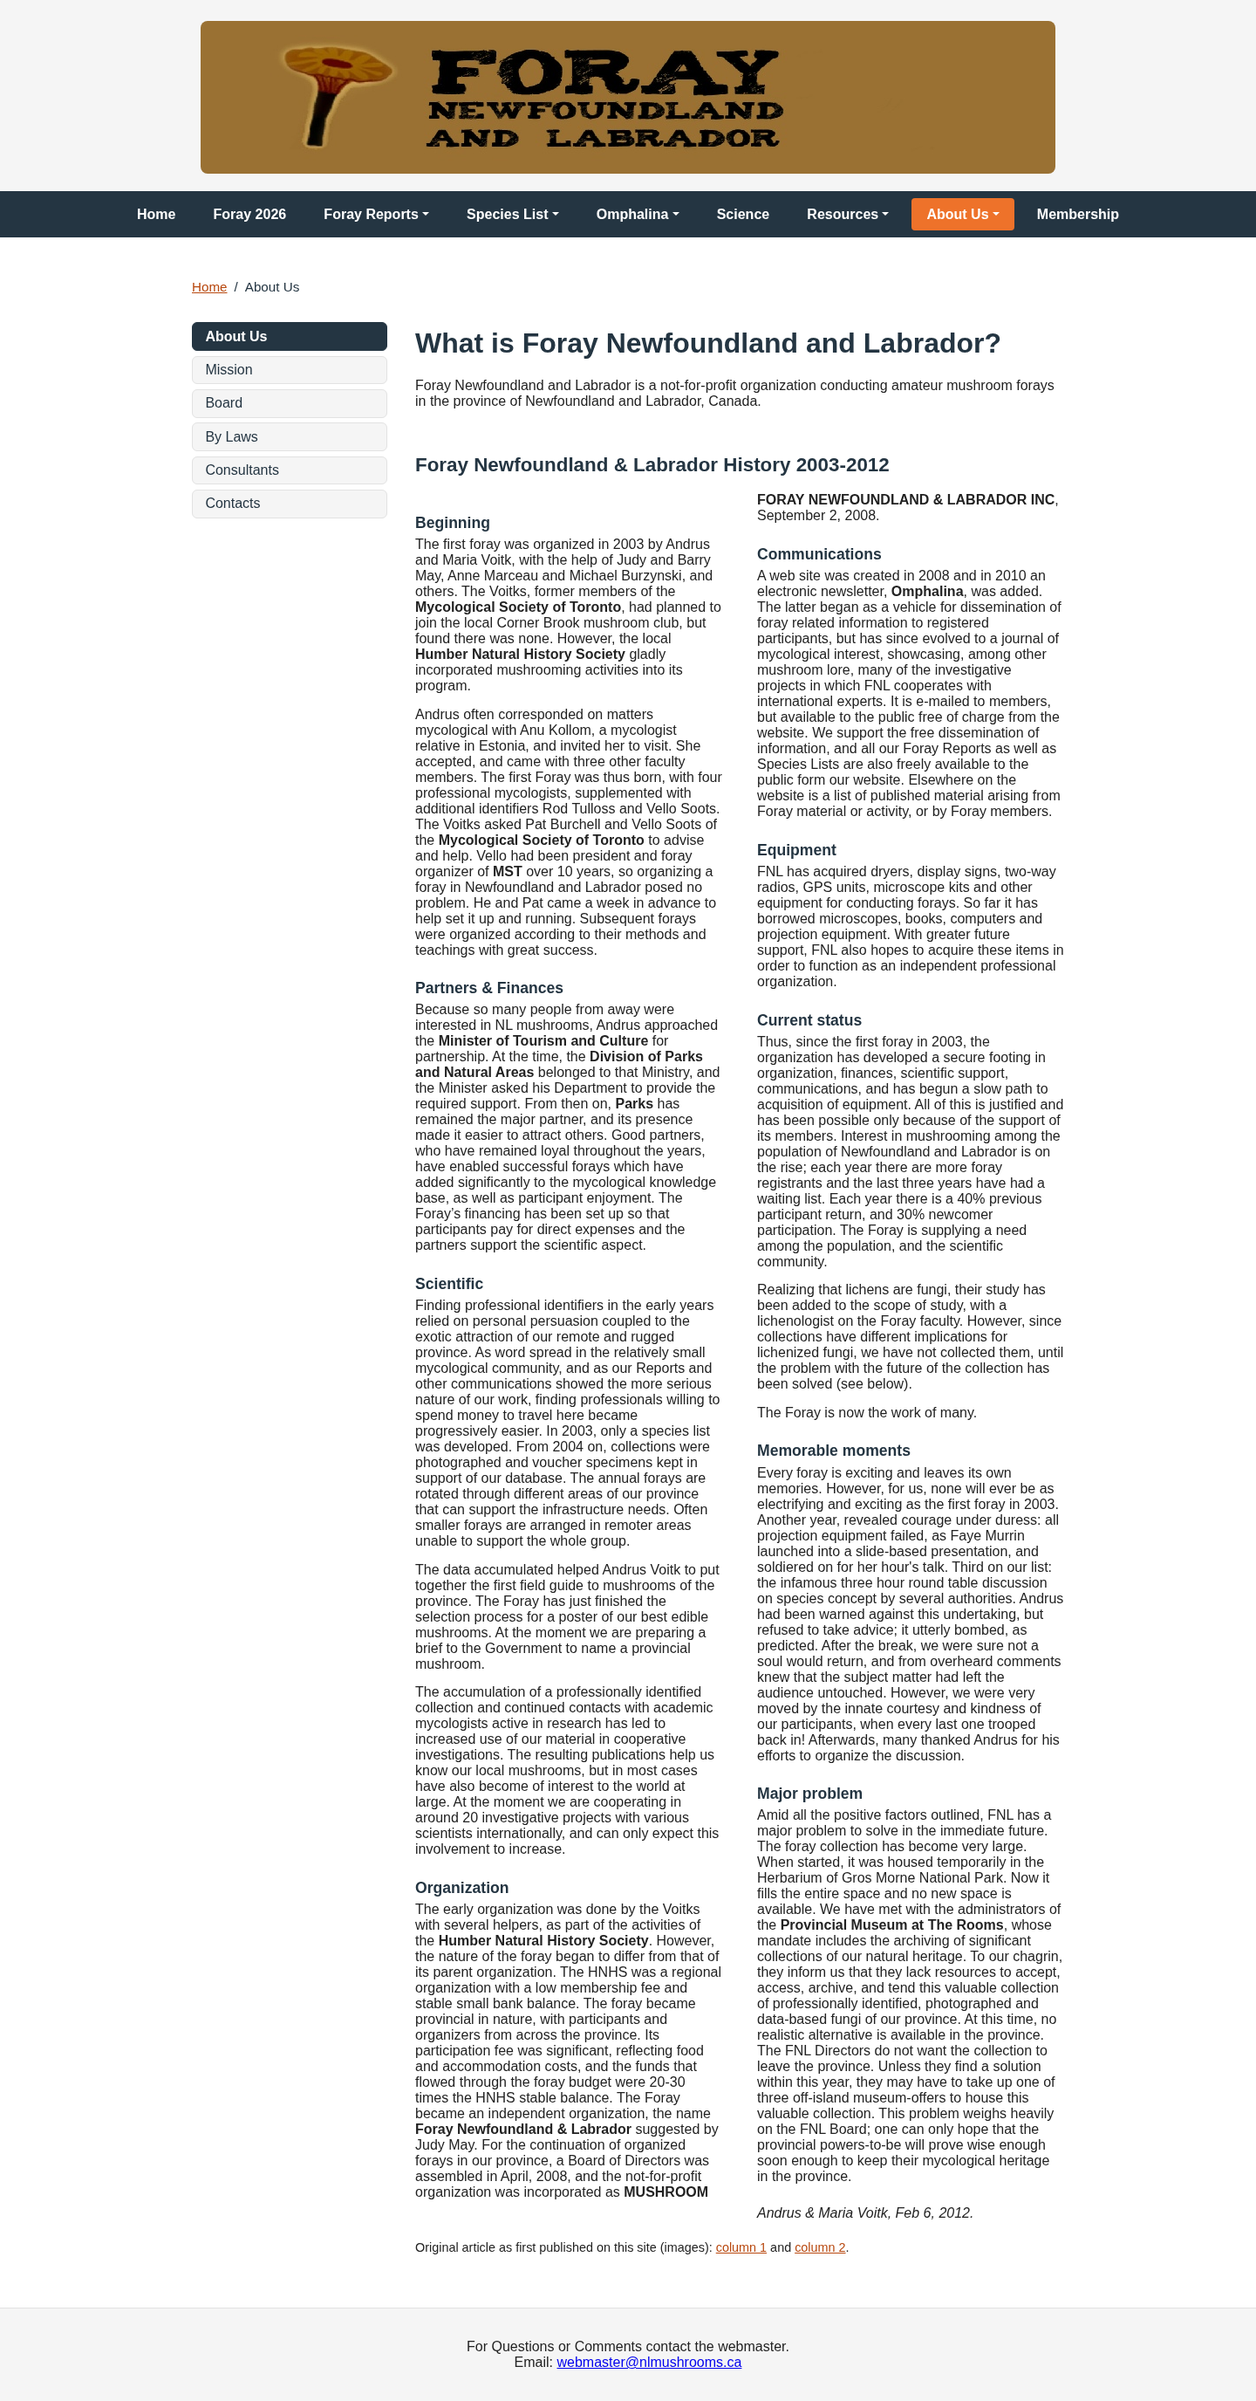
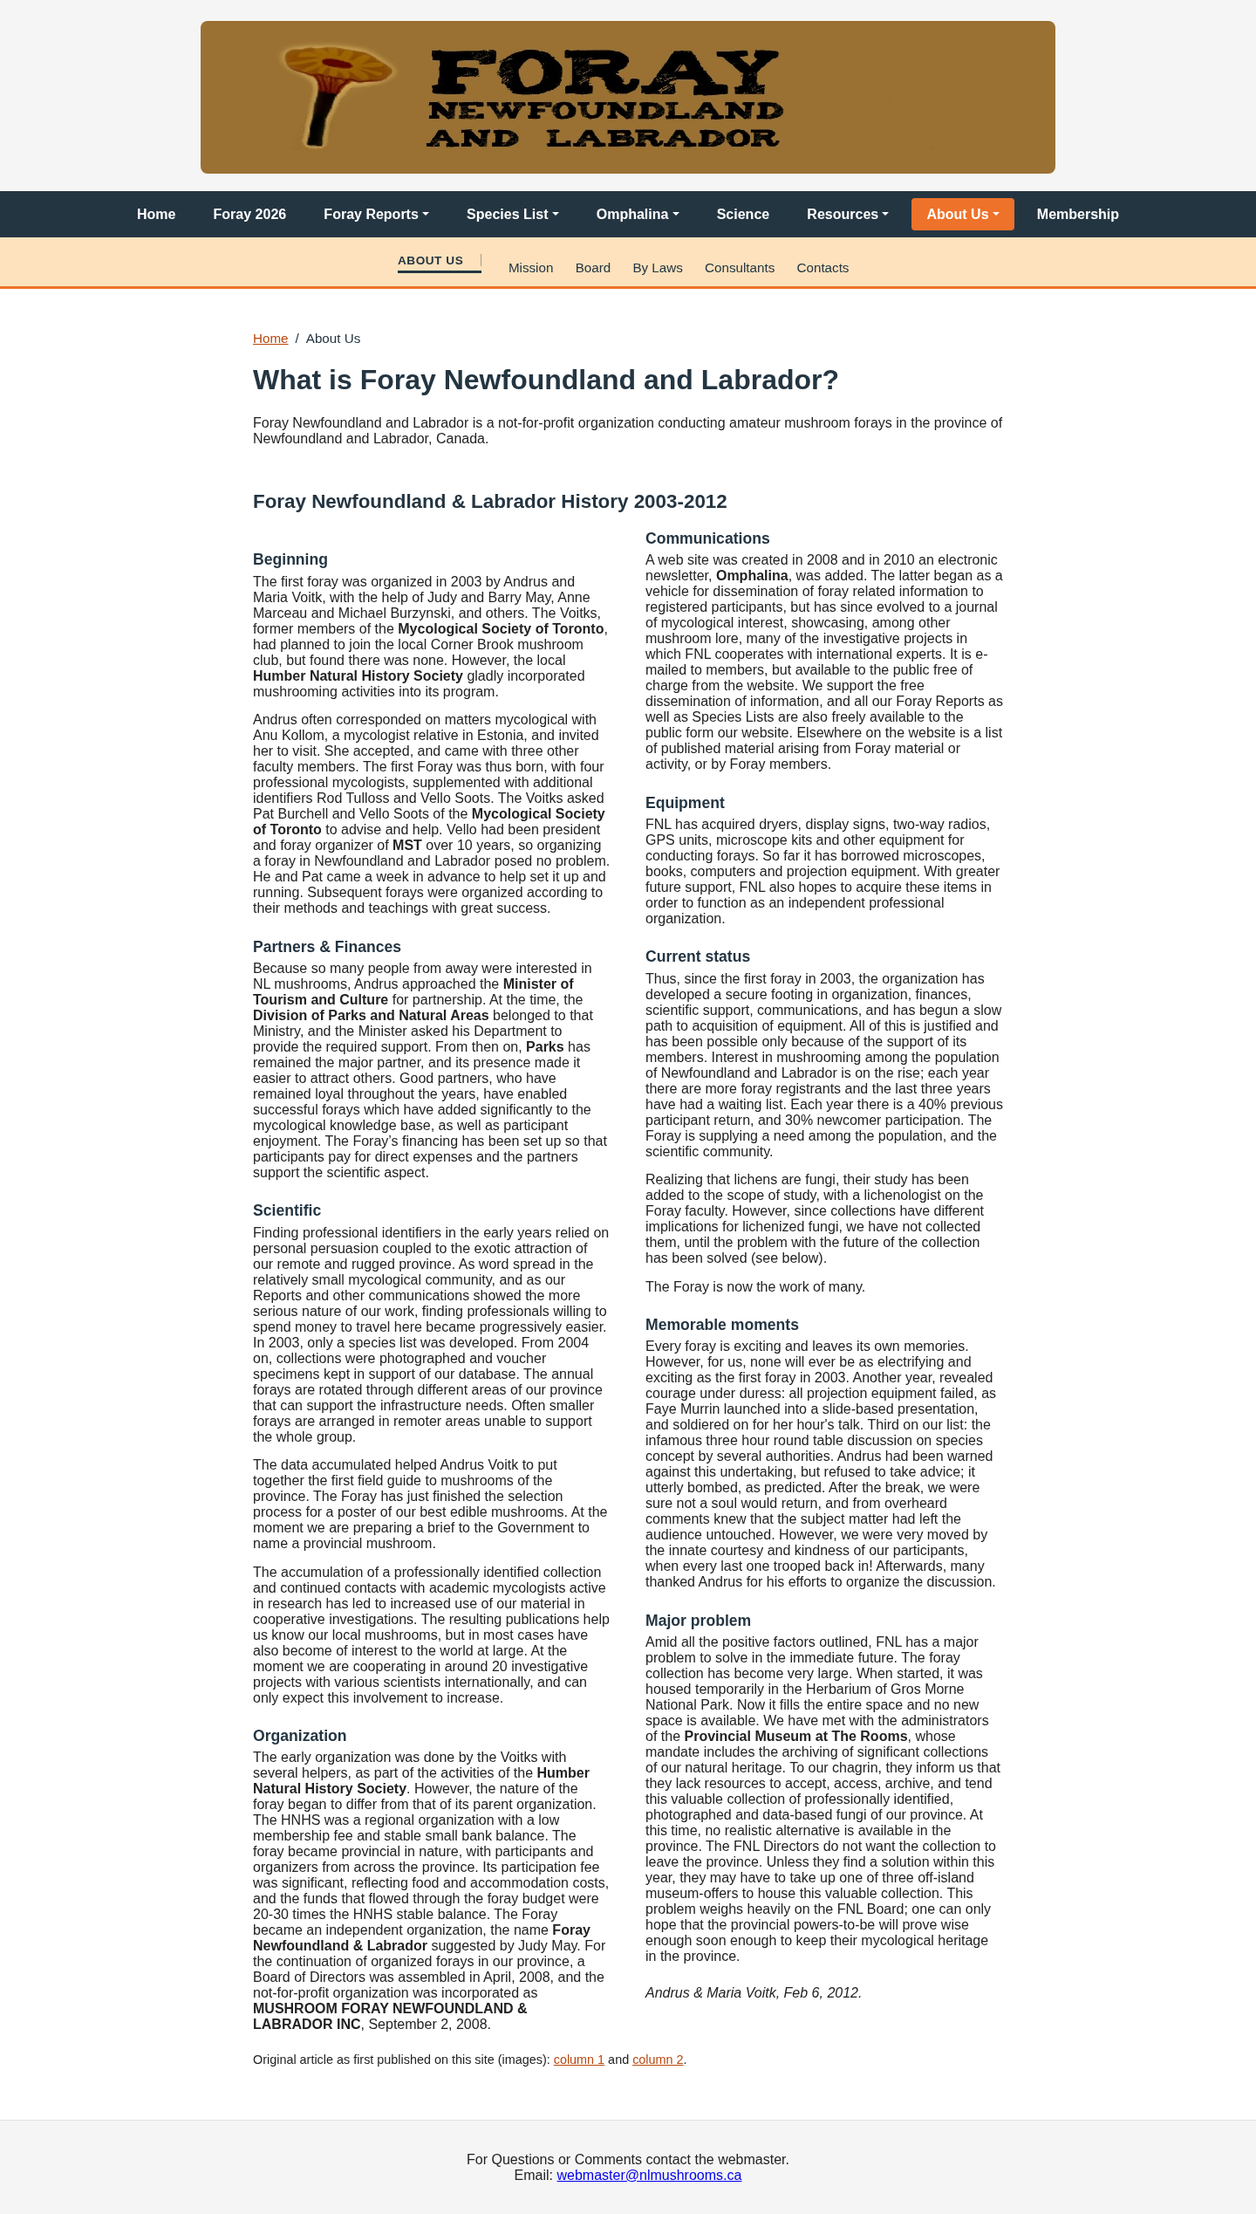
feat(about): horizontal sub-nav under the main nav instead of side pills

Changed region(s): [[0.0, 0.0, 1.0, 0.9342], [0.4062, 0.9653, 0.625, 0.9965]]

diff --git a/assets/styles/site.css b/assets/styles/site.css
@@ -207,16 +207,40 @@ main.page a { color: #b8480f; }
 }
 .history .source { margin-top: 1.5em; font-size: 0.9em; column-span: all; }
 
-/* Section menu and breadcrumb (about_us and its sub-pages) */
-main.with-section { max-width: 1000px; display: grid; grid-template-columns: 1fr; gap: 1rem 2rem; }
-main.with-section .breadcrumb { margin: 0; font-size: 0.95em; --bs-breadcrumb-divider-color: #243542; --bs-breadcrumb-item-active-color: #243542; }
-main.with-section .breadcrumb a { color: #b8480f; }
-.section-nav .nav-pills { flex-wrap: wrap; gap: 0.35rem; }
-.section-nav .nav-link { color: #243542; background: #f5f5f5; border: 1px solid #e2e2e2; padding: 0.4em 0.9em; }
-.section-nav .nav-link:hover, .section-nav .nav-link:focus { background: #fde2bd; color: #243542; outline: none; }
-.section-nav .nav-link.active { background: #243542; border-color: #243542; color: #fff; font-weight: 600; }
-@media (min-width: 992px) {
-  main.with-section { grid-template-columns: 14rem 1fr; align-items: start; }
-  main.with-section .page-breadcrumb { grid-column: 1 / -1; }
-  .section-nav .nav-pills { flex-direction: column; flex-wrap: nowrap; }
+/* Breadcrumb and section sub-nav (pages that belong to a section) */
+.page-breadcrumb { margin: 0 0 1rem; }
+.page-breadcrumb .breadcrumb { margin: 0; font-size: 0.95em; --bs-breadcrumb-divider-color: #243542; --bs-breadcrumb-item-active-color: #243542; }
+.page-breadcrumb .breadcrumb a { color: #b8480f; }
+/* Sub-nav: light bar directly under the dark main nav, smaller type, underline marks the current page */
+.subnav {
+  display: flex;
+  flex-wrap: wrap;
+  align-items: center;
+  justify-content: center;
+  gap: 0.25rem 1.25rem;
+  padding: 0.35rem 1rem;
+  background: #fde2bd;
+  border-bottom: 3px solid #ee722a;
+  font-size: 0.95rem;
+}
+.subnav .subnav-title {
+  color: #243542;
+  font-weight: 700;
+  text-transform: uppercase;
+  letter-spacing: 0.04em;
+  font-size: 0.85rem;
+  text-decoration: none;
+  padding: 0.3em 0;
+  border-bottom: 3px solid transparent;
+}
+.subnav .subnav-title::after { content: ""; display: inline-block; width: 1px; height: 1em; background: #243542; opacity: 0.4; margin-left: 1.25rem; vertical-align: -0.15em; }
+.subnav .nav { flex-wrap: wrap; gap: 0 0.25rem; }
+.subnav .nav-link { color: #243542; padding: 0.3em 0.7em; border-bottom: 3px solid transparent; border-radius: 0; font-weight: 500; }
+.subnav .nav-link:hover, .subnav .nav-link:focus, .subnav .subnav-title:hover, .subnav .subnav-title:focus { color: #243542; border-bottom-color: #ee722a; outline: none; }
+.subnav .nav-link.active, .subnav .subnav-title.active { border-bottom-color: #243542; font-weight: 700; }
+@media (max-width: 991.98px) {
+  .subnav { gap: 0; padding: 0.4rem 0.5rem; }
+  .subnav .subnav-title { flex: 1 0 100%; text-align: center; }
+  .subnav .subnav-title::after { display: none; }
+  .subnav .nav { justify-content: center; }
 }

diff --git a/about_us.html b/about_us.html
@@ -113,6 +113,18 @@
     </div>
   </nav>
   <!-- /layout:nav -->
+  <!-- layout:section-nav -->
+  <nav class="subnav" aria-label="About Us section">
+    <a class="subnav-title active" aria-current="page" href="about_us.html">About Us</a>
+    <ul class="nav">
+      <li class="nav-item"><a class="nav-link" href="mission.html">Mission</a></li>
+      <li class="nav-item"><a class="nav-link" href="board.html">Board</a></li>
+      <li class="nav-item"><a class="nav-link" href="bylaws.html">By Laws</a></li>
+      <li class="nav-item"><a class="nav-link" href="consultants.html">Consultants</a></li>
+      <li class="nav-item"><a class="nav-link" href="contacts.html">Contacts</a></li>
+    </ul>
+  </nav>
+  <!-- /layout:section-nav -->
   <main class="page with-section">
     <!-- layout:breadcrumb -->
     <nav class="page-breadcrumb" aria-label="breadcrumb">
@@ -122,18 +134,6 @@
       </ol>
     </nav>
     <!-- /layout:breadcrumb -->
-    <!-- layout:section-nav -->
-    <nav class="section-nav" aria-label="About Us section">
-      <ul class="nav nav-pills">
-        <li class="nav-item"><a class="nav-link active" aria-current="page" href="about_us.html">About Us</a></li>
-        <li class="nav-item"><a class="nav-link" href="mission.html">Mission</a></li>
-        <li class="nav-item"><a class="nav-link" href="board.html">Board</a></li>
-        <li class="nav-item"><a class="nav-link" href="bylaws.html">By Laws</a></li>
-        <li class="nav-item"><a class="nav-link" href="consultants.html">Consultants</a></li>
-        <li class="nav-item"><a class="nav-link" href="contacts.html">Contacts</a></li>
-      </ul>
-    </nav>
-    <!-- /layout:section-nav -->
     <div class="page-body">
     <section class="content">
       <h1>What is Foray Newfoundland and Labrador?</h1>

diff --git a/board.html b/board.html
@@ -113,6 +113,18 @@
     </div>
   </nav>
   <!-- /layout:nav -->
+  <!-- layout:section-nav -->
+  <nav class="subnav" aria-label="About Us section">
+    <a class="subnav-title" href="about_us.html">About Us</a>
+    <ul class="nav">
+      <li class="nav-item"><a class="nav-link" href="mission.html">Mission</a></li>
+      <li class="nav-item"><a class="nav-link active" aria-current="page" href="board.html">Board</a></li>
+      <li class="nav-item"><a class="nav-link" href="bylaws.html">By Laws</a></li>
+      <li class="nav-item"><a class="nav-link" href="consultants.html">Consultants</a></li>
+      <li class="nav-item"><a class="nav-link" href="contacts.html">Contacts</a></li>
+    </ul>
+  </nav>
+  <!-- /layout:section-nav -->
   <main class="page with-section">
     <!-- layout:breadcrumb -->
     <nav class="page-breadcrumb" aria-label="breadcrumb">
@@ -123,18 +135,6 @@
       </ol>
     </nav>
     <!-- /layout:breadcrumb -->
-    <!-- layout:section-nav -->
-    <nav class="section-nav" aria-label="About Us section">
-      <ul class="nav nav-pills">
-        <li class="nav-item"><a class="nav-link" href="about_us.html">About Us</a></li>
-        <li class="nav-item"><a class="nav-link" href="mission.html">Mission</a></li>
-        <li class="nav-item"><a class="nav-link active" aria-current="page" href="board.html">Board</a></li>
-        <li class="nav-item"><a class="nav-link" href="bylaws.html">By Laws</a></li>
-        <li class="nav-item"><a class="nav-link" href="consultants.html">Consultants</a></li>
-        <li class="nav-item"><a class="nav-link" href="contacts.html">Contacts</a></li>
-      </ul>
-    </nav>
-    <!-- /layout:section-nav -->
     <div class="page-body">
       <section class="content">
         <h1>Board of Directors</h1>

diff --git a/consultants.html b/consultants.html
@@ -113,6 +113,18 @@
     </div>
   </nav>
   <!-- /layout:nav -->
+  <!-- layout:section-nav -->
+  <nav class="subnav" aria-label="About Us section">
+    <a class="subnav-title" href="about_us.html">About Us</a>
+    <ul class="nav">
+      <li class="nav-item"><a class="nav-link" href="mission.html">Mission</a></li>
+      <li class="nav-item"><a class="nav-link" href="board.html">Board</a></li>
+      <li class="nav-item"><a class="nav-link" href="bylaws.html">By Laws</a></li>
+      <li class="nav-item"><a class="nav-link active" aria-current="page" href="consultants.html">Consultants</a></li>
+      <li class="nav-item"><a class="nav-link" href="contacts.html">Contacts</a></li>
+    </ul>
+  </nav>
+  <!-- /layout:section-nav -->
   <main class="page with-section">
     <!-- layout:breadcrumb -->
     <nav class="page-breadcrumb" aria-label="breadcrumb">
@@ -123,18 +135,6 @@
       </ol>
     </nav>
     <!-- /layout:breadcrumb -->
-    <!-- layout:section-nav -->
-    <nav class="section-nav" aria-label="About Us section">
-      <ul class="nav nav-pills">
-        <li class="nav-item"><a class="nav-link" href="about_us.html">About Us</a></li>
-        <li class="nav-item"><a class="nav-link" href="mission.html">Mission</a></li>
-        <li class="nav-item"><a class="nav-link" href="board.html">Board</a></li>
-        <li class="nav-item"><a class="nav-link" href="bylaws.html">By Laws</a></li>
-        <li class="nav-item"><a class="nav-link active" aria-current="page" href="consultants.html">Consultants</a></li>
-        <li class="nav-item"><a class="nav-link" href="contacts.html">Contacts</a></li>
-      </ul>
-    </nav>
-    <!-- /layout:section-nav -->
     <div class="page-body">
       <section class="content">
         <h1>Consultants</h1>

diff --git a/bylaws.html b/bylaws.html
@@ -113,6 +113,18 @@
     </div>
   </nav>
   <!-- /layout:nav -->
+  <!-- layout:section-nav -->
+  <nav class="subnav" aria-label="About Us section">
+    <a class="subnav-title" href="about_us.html">About Us</a>
+    <ul class="nav">
+      <li class="nav-item"><a class="nav-link" href="mission.html">Mission</a></li>
+      <li class="nav-item"><a class="nav-link" href="board.html">Board</a></li>
+      <li class="nav-item"><a class="nav-link active" aria-current="page" href="bylaws.html">By Laws</a></li>
+      <li class="nav-item"><a class="nav-link" href="consultants.html">Consultants</a></li>
+      <li class="nav-item"><a class="nav-link" href="contacts.html">Contacts</a></li>
+    </ul>
+  </nav>
+  <!-- /layout:section-nav -->
   <main class="page with-section">
     <!-- layout:breadcrumb -->
     <nav class="page-breadcrumb" aria-label="breadcrumb">
@@ -123,18 +135,6 @@
       </ol>
     </nav>
     <!-- /layout:breadcrumb -->
-    <!-- layout:section-nav -->
-    <nav class="section-nav" aria-label="About Us section">
-      <ul class="nav nav-pills">
-        <li class="nav-item"><a class="nav-link" href="about_us.html">About Us</a></li>
-        <li class="nav-item"><a class="nav-link" href="mission.html">Mission</a></li>
-        <li class="nav-item"><a class="nav-link" href="board.html">Board</a></li>
-        <li class="nav-item"><a class="nav-link active" aria-current="page" href="bylaws.html">By Laws</a></li>
-        <li class="nav-item"><a class="nav-link" href="consultants.html">Consultants</a></li>
-        <li class="nav-item"><a class="nav-link" href="contacts.html">Contacts</a></li>
-      </ul>
-    </nav>
-    <!-- /layout:section-nav -->
     <div class="page-body">
       <section class="content">
         <h1>By Laws</h1>

diff --git a/mission.html b/mission.html
@@ -113,6 +113,18 @@
     </div>
   </nav>
   <!-- /layout:nav -->
+  <!-- layout:section-nav -->
+  <nav class="subnav" aria-label="About Us section">
+    <a class="subnav-title" href="about_us.html">About Us</a>
+    <ul class="nav">
+      <li class="nav-item"><a class="nav-link active" aria-current="page" href="mission.html">Mission</a></li>
+      <li class="nav-item"><a class="nav-link" href="board.html">Board</a></li>
+      <li class="nav-item"><a class="nav-link" href="bylaws.html">By Laws</a></li>
+      <li class="nav-item"><a class="nav-link" href="consultants.html">Consultants</a></li>
+      <li class="nav-item"><a class="nav-link" href="contacts.html">Contacts</a></li>
+    </ul>
+  </nav>
+  <!-- /layout:section-nav -->
   <main class="page with-section">
     <!-- layout:breadcrumb -->
     <nav class="page-breadcrumb" aria-label="breadcrumb">
@@ -123,18 +135,6 @@
       </ol>
     </nav>
     <!-- /layout:breadcrumb -->
-    <!-- layout:section-nav -->
-    <nav class="section-nav" aria-label="About Us section">
-      <ul class="nav nav-pills">
-        <li class="nav-item"><a class="nav-link" href="about_us.html">About Us</a></li>
-        <li class="nav-item"><a class="nav-link active" aria-current="page" href="mission.html">Mission</a></li>
-        <li class="nav-item"><a class="nav-link" href="board.html">Board</a></li>
-        <li class="nav-item"><a class="nav-link" href="bylaws.html">By Laws</a></li>
-        <li class="nav-item"><a class="nav-link" href="consultants.html">Consultants</a></li>
-        <li class="nav-item"><a class="nav-link" href="contacts.html">Contacts</a></li>
-      </ul>
-    </nav>
-    <!-- /layout:section-nav -->
     <div class="page-body">
       <section class="content">
         <h1>Mission</h1>

diff --git a/contacts.html b/contacts.html
@@ -113,6 +113,18 @@
     </div>
   </nav>
   <!-- /layout:nav -->
+  <!-- layout:section-nav -->
+  <nav class="subnav" aria-label="About Us section">
+    <a class="subnav-title" href="about_us.html">About Us</a>
+    <ul class="nav">
+      <li class="nav-item"><a class="nav-link" href="mission.html">Mission</a></li>
+      <li class="nav-item"><a class="nav-link" href="board.html">Board</a></li>
+      <li class="nav-item"><a class="nav-link" href="bylaws.html">By Laws</a></li>
+      <li class="nav-item"><a class="nav-link" href="consultants.html">Consultants</a></li>
+      <li class="nav-item"><a class="nav-link active" aria-current="page" href="contacts.html">Contacts</a></li>
+    </ul>
+  </nav>
+  <!-- /layout:section-nav -->
   <main class="page with-section">
     <!-- layout:breadcrumb -->
     <nav class="page-breadcrumb" aria-label="breadcrumb">
@@ -123,18 +135,6 @@
       </ol>
     </nav>
     <!-- /layout:breadcrumb -->
-    <!-- layout:section-nav -->
-    <nav class="section-nav" aria-label="About Us section">
-      <ul class="nav nav-pills">
-        <li class="nav-item"><a class="nav-link" href="about_us.html">About Us</a></li>
-        <li class="nav-item"><a class="nav-link" href="mission.html">Mission</a></li>
-        <li class="nav-item"><a class="nav-link" href="board.html">Board</a></li>
-        <li class="nav-item"><a class="nav-link" href="bylaws.html">By Laws</a></li>
-        <li class="nav-item"><a class="nav-link" href="consultants.html">Consultants</a></li>
-        <li class="nav-item"><a class="nav-link active" aria-current="page" href="contacts.html">Contacts</a></li>
-      </ul>
-    </nav>
-    <!-- /layout:section-nav -->
     <div class="page-body">
     <section class="content">
       <h1>Contact Us</h1>

diff --git a/scripts/apply_layout.rb b/scripts/apply_layout.rb
@@ -64,18 +64,21 @@ module ApplyLayout
     %(<nav class="page-breadcrumb" aria-label="breadcrumb">\n  <ol class="breadcrumb">\n#{items.join}  </ol>\n</nav>\n)
   end
 
+  # Horizontal sub-nav shown between the main nav and the page: the section title (links to its overview) and children.
   def section_nav(basename)
     sec = section_for(basename)
     return '' unless sec
 
-    links = [[sec['title'], sec['page']]] + sec['children'].map { |c| [c['title'], c['page']] }
-    items = links.map do |title, href|
-      active = href == basename
+    title_cls = sec['page'] == basename ? 'subnav-title active' : 'subnav-title'
+    title_cur = sec['page'] == basename ? ' aria-current="page"' : ''
+    items = sec['children'].map do |c|
+      active = c['page'] == basename
       cls = active ? 'nav-link active' : 'nav-link'
       cur = active ? ' aria-current="page"' : ''
-      %(    <li class="nav-item"><a class="#{cls}"#{cur} href="#{href}">#{CGI.escapeHTML(title)}</a></li>\n)
+      %(    <li class="nav-item"><a class="#{cls}"#{cur} href="#{c['page']}">#{CGI.escapeHTML(c['title'])}</a></li>\n)
     end
-    %(<nav class="section-nav" aria-label="#{CGI.escapeHTML(sec['title'])} section">\n  <ul class="nav nav-pills">\n#{items.join}  </ul>\n</nav>\n)
+    label = CGI.escapeHTML(sec['title'])
+    %(<nav class="subnav" aria-label="#{label} section">\n  <a class="#{title_cls}"#{title_cur} href="#{sec['page']}">#{label}</a>\n  <ul class="nav">\n#{items.join}  </ul>\n</nav>\n)
   end
 
   def render(source, page_path)

diff --git a/spec/layout_spec.rb b/spec/layout_spec.rb
@@ -70,17 +70,24 @@ RSpec.describe ApplyLayout do
       expect(out).not_to include('mission.html</a></li>')
     end
 
-    it 'lists the overview and every child and marks only the current page' do
+    it 'builds the sub-nav with the section title and every child, marking only the current page' do
       out = described_class.render(page, 'board.html')
-      expect(out.scan('nav-link').size).to eq(6)
+      expect(out).to include('<a class="subnav-title" href="about_us.html">About Us</a>')
+      expect(out.scan('class="nav-link').size).to eq(5)
       expect(out.scan('aria-current="page" href').size).to eq(1)
       expect(out).to include('<a class="nav-link active" aria-current="page" href="board.html">Board</a>')
+    end
+
+    it 'marks the section title active on the overview page' do
+      out = described_class.render(page, 'about_us.html')
+      expect(out).to include('<a class="subnav-title active" aria-current="page" href="about_us.html">About Us</a>')
+      expect(out).not_to include('nav-link active')
     end
 
     it 'renders both regions empty for a page outside every section' do
       out = described_class.render(page, 'index.html')
       expect(out).not_to include('breadcrumb-item')
-      expect(out).not_to include('nav-link')
+      expect(out).not_to include('subnav')
     end
 
     it 'is idempotent' do
